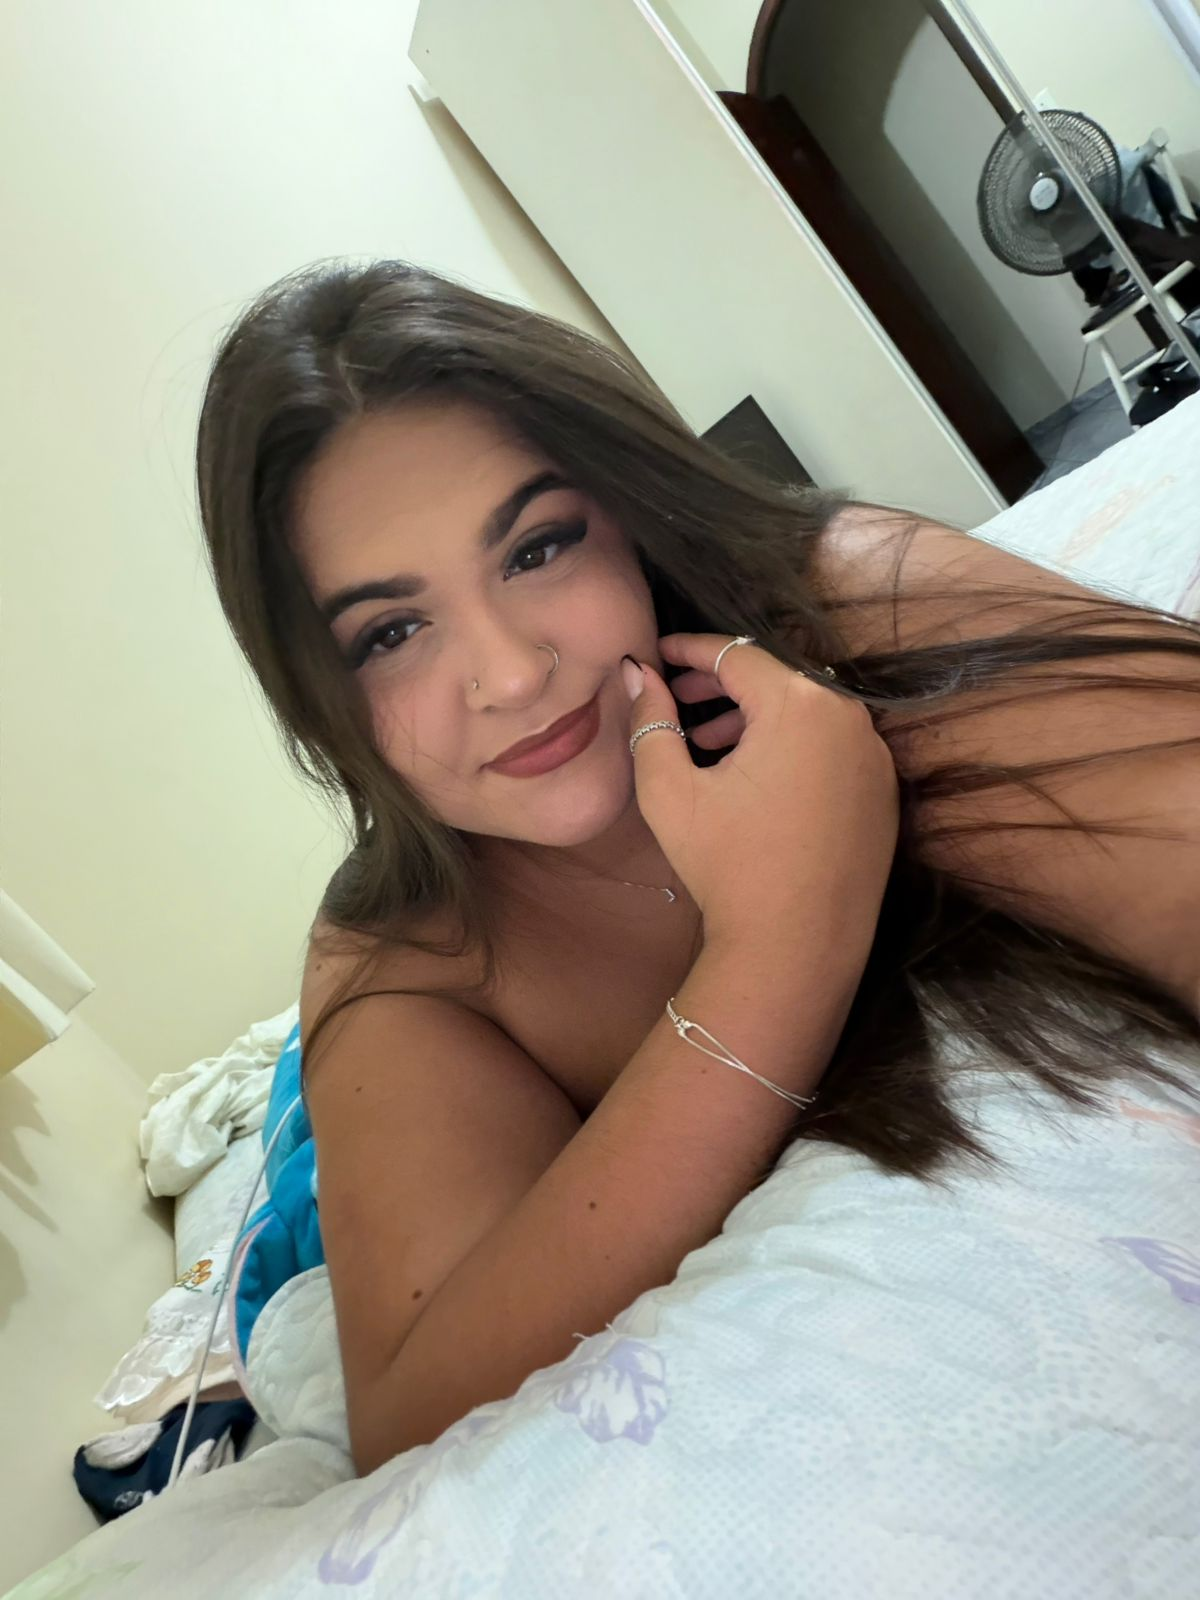
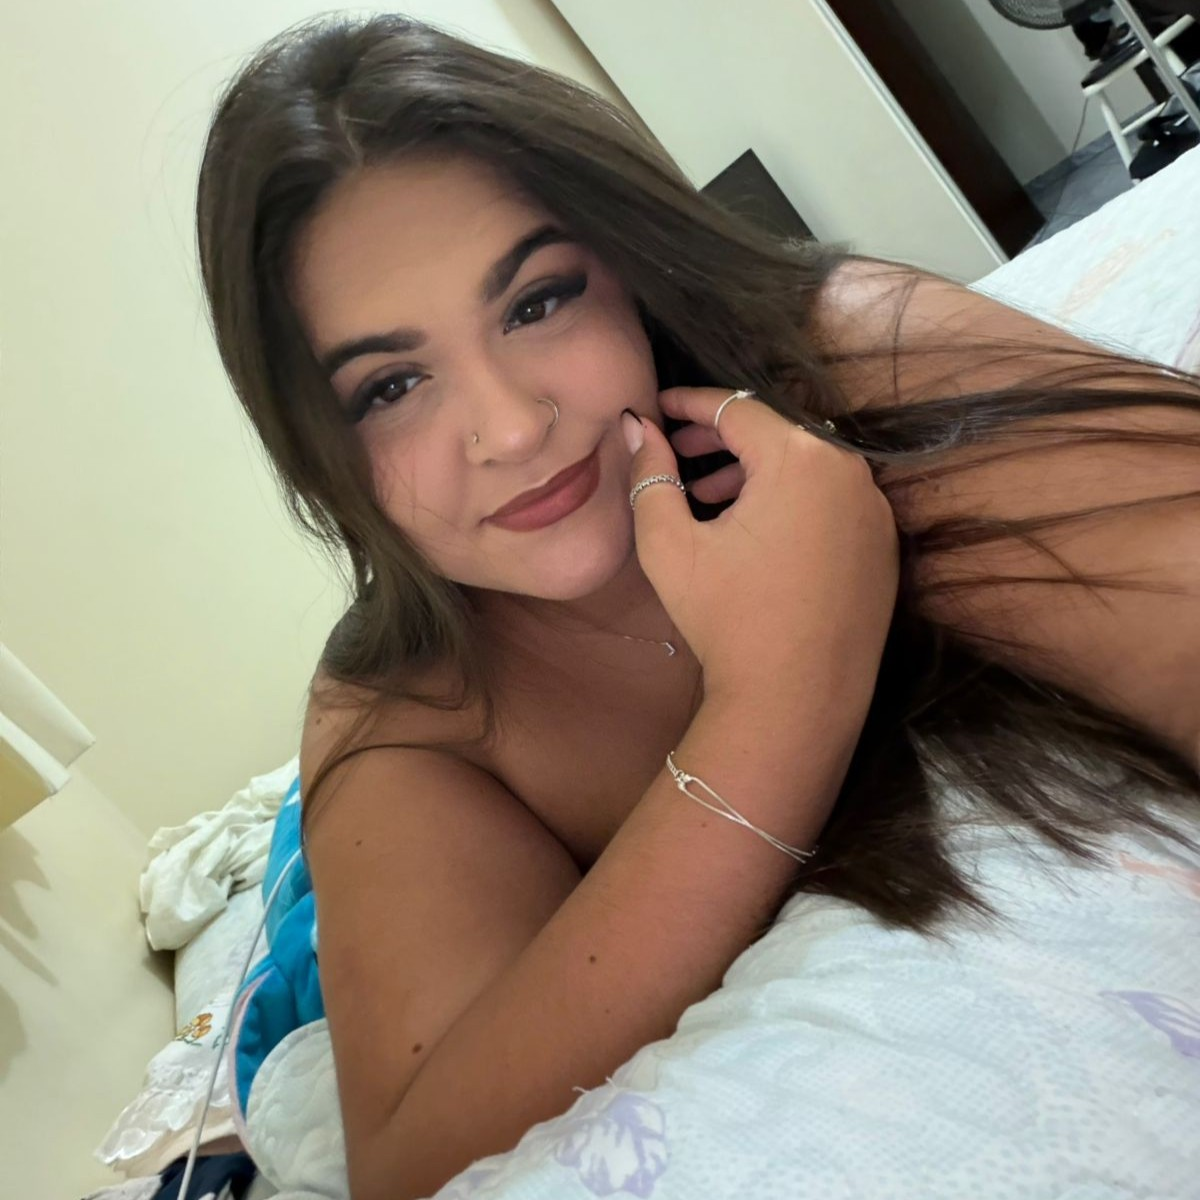
fix: atualização no readme

diff --git a/README.md b/README.md
@@ -173,7 +173,7 @@ https://github.com/SoulMind-FIAP/Sprint3-SoulMind.git
 ## Integrantes do Grupo
 
 ### Ludmylla Nogueira
-<img src ="././SoulMind/src/assets/lud.jpeg" width=50px height=50px>
+<img src ="././SoulMind/src/assets/lud.jpeg" width=100px height=100px>
 
 - **RM:** 572999
 - **Turma:** TDSPW
